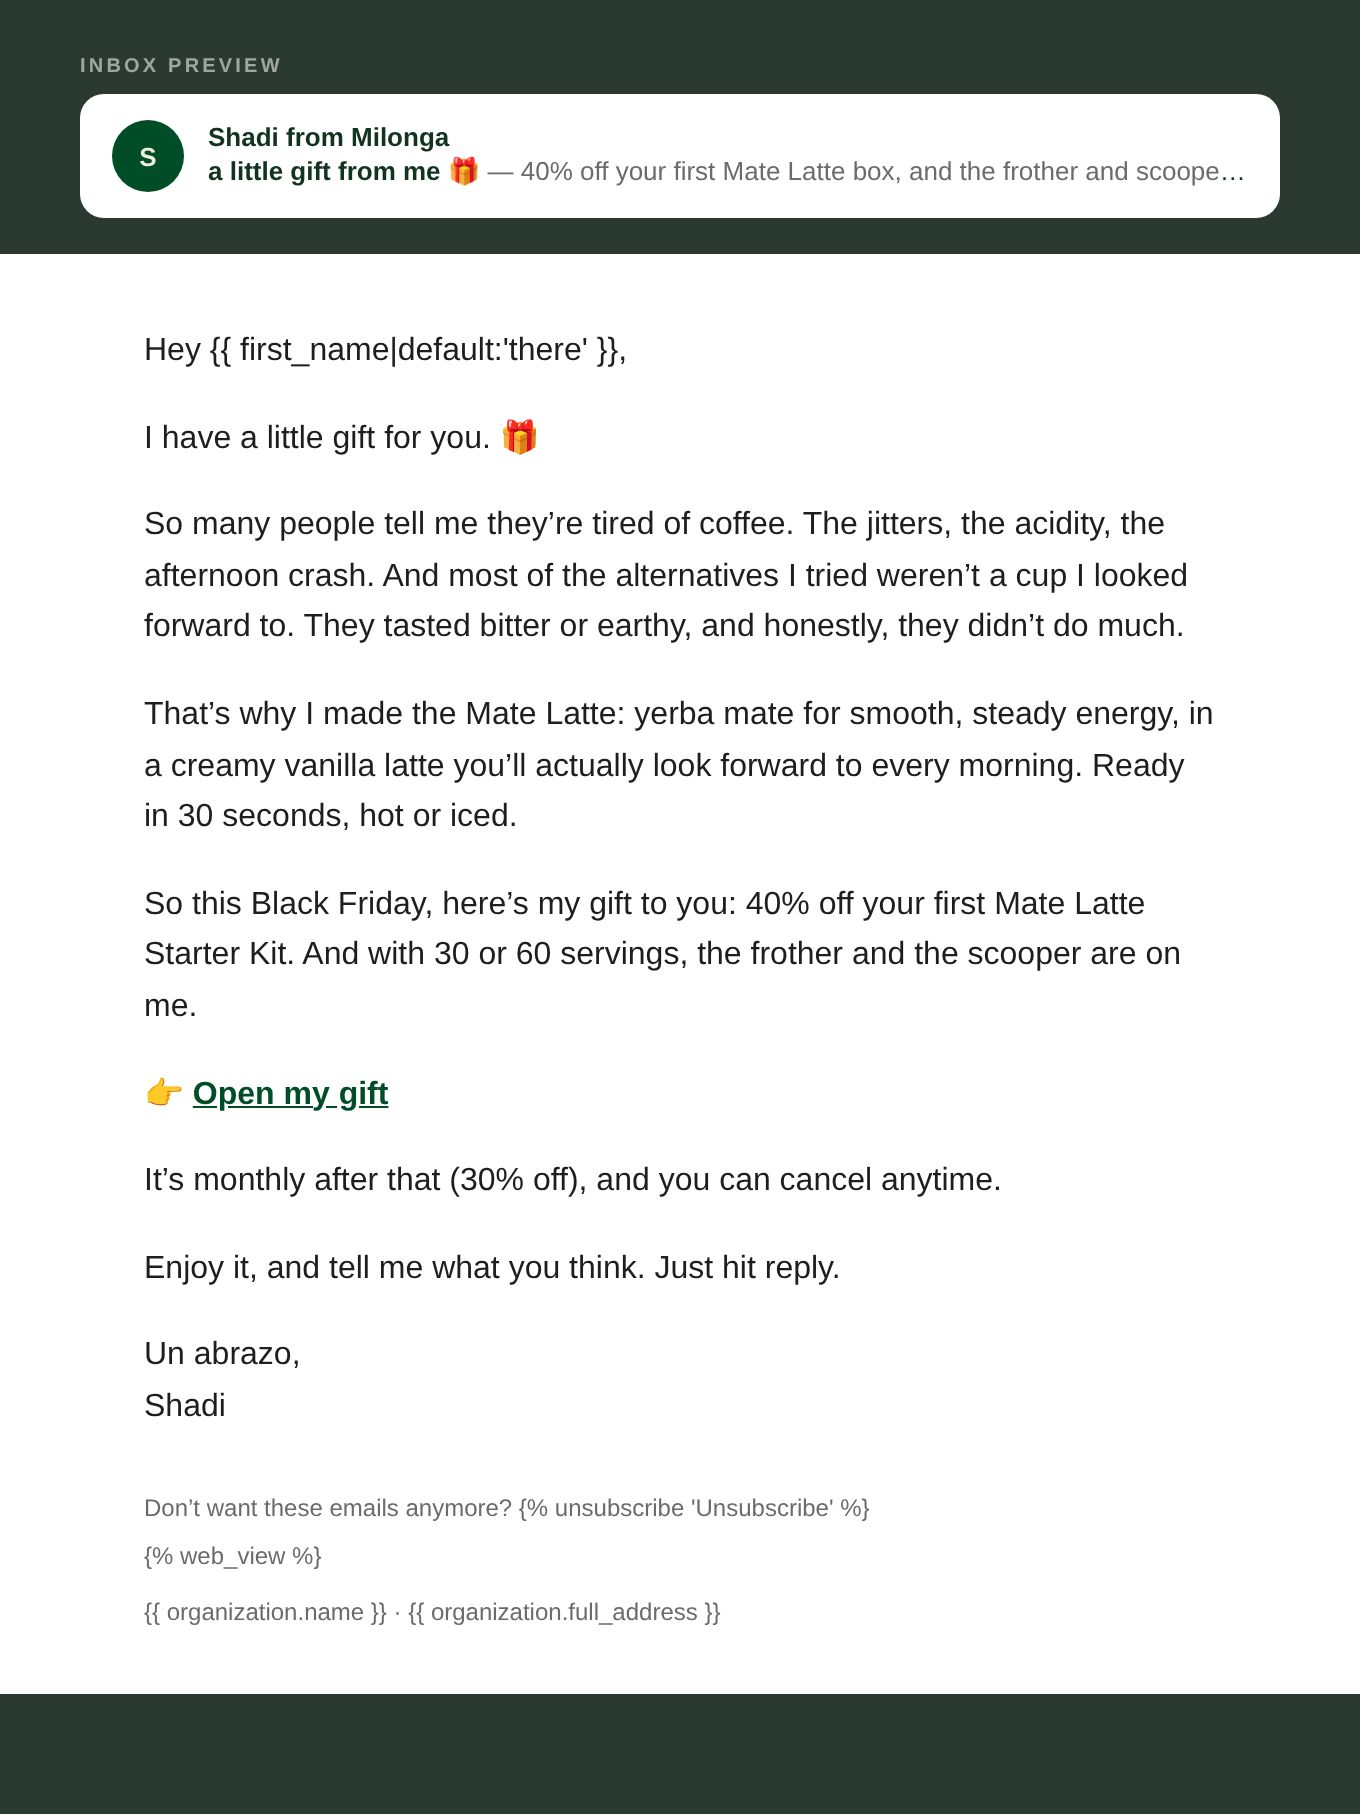
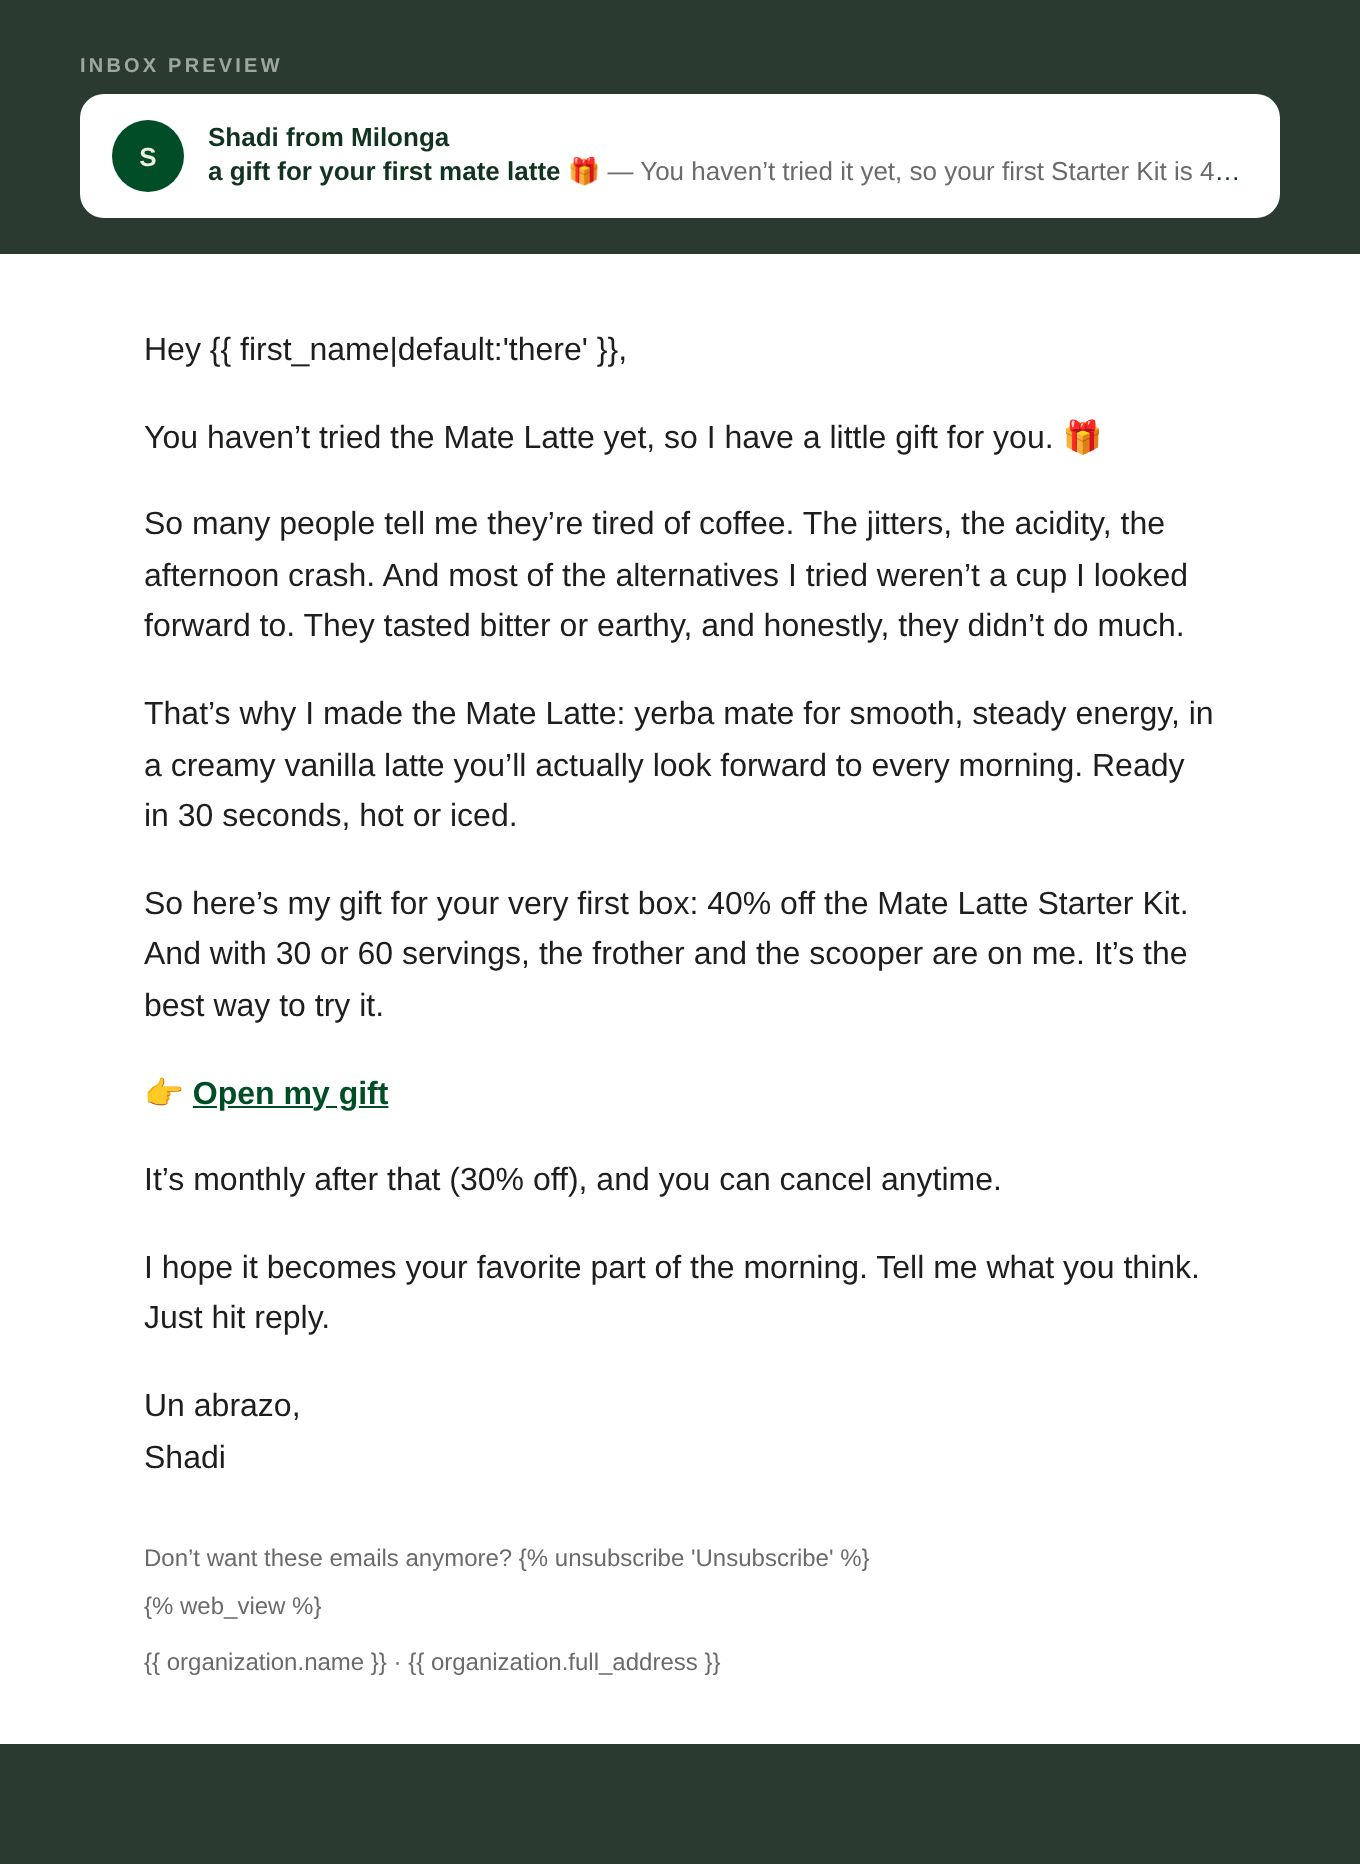
Shadi's Black Friday letter: the gift for people who haven't tried the Mate Latte
Claude-Session: https://claude.ai/code/session_01NhEtXPnfeCJfN73SqBkUZ5

diff --git a/email-ds/refine/bf-shadi.html b/email-ds/refine/bf-shadi.html
@@ -1,4 +1,4 @@
-<!doctype html><html><head><meta charset="utf-8"><meta name="viewport" content="width=device-width,initial-scale=1"><style>body{margin:0;background:#2B3A31;padding:28px 0 60px}.inbox{width:600px;max-width:calc(100% - 24px);margin:0 auto 18px;font-family:Helvetica,Arial,sans-serif}.lab{font-size:10px;font-weight:700;letter-spacing:.16em;text-transform:uppercase;color:rgba(255,255,255,.55);margin-bottom:8px}.row{background:#fff;border-radius:12px;padding:13px 16px;display:grid;grid-template-columns:36px 1fr;column-gap:12px;align-items:center}.av{grid-row:1/span 2;width:36px;height:36px;border-radius:50%;background:#004D27;color:#F0EFDF;display:grid;place-items:center;font-weight:900;font-size:13px}.from{font-weight:700;font-size:13px;color:#12331F}.sub{font-size:13px;line-height:1.4;color:#12331F;white-space:nowrap;overflow:hidden;text-overflow:ellipsis}.sub span{color:#6b6b6b}</style></head><body><div class="inbox"><div class="lab">Inbox preview</div><div class="row"><div class="av">S</div><div class="from">Shadi from Milonga</div><div class="sub"><b>a little gift from me 🎁</b> <span>&mdash; 40% off your first Mate Latte box, and the frother and scooper on me.</span></div></div></div><style>
+<!doctype html><html><head><meta charset="utf-8"><meta name="viewport" content="width=device-width,initial-scale=1"><style>body{margin:0;background:#2B3A31;padding:28px 0 60px}.inbox{width:600px;max-width:calc(100% - 24px);margin:0 auto 18px;font-family:Helvetica,Arial,sans-serif}.lab{font-size:10px;font-weight:700;letter-spacing:.16em;text-transform:uppercase;color:rgba(255,255,255,.55);margin-bottom:8px}.row{background:#fff;border-radius:12px;padding:13px 16px;display:grid;grid-template-columns:36px 1fr;column-gap:12px;align-items:center}.av{grid-row:1/span 2;width:36px;height:36px;border-radius:50%;background:#004D27;color:#F0EFDF;display:grid;place-items:center;font-weight:900;font-size:13px}.from{font-weight:700;font-size:13px;color:#12331F}.sub{font-size:13px;line-height:1.4;color:#12331F;white-space:nowrap;overflow:hidden;text-overflow:ellipsis}.sub span{color:#6b6b6b}</style></head><body><div class="inbox"><div class="lab">Inbox preview</div><div class="row"><div class="av">S</div><div class="from">Shadi from Milonga</div><div class="sub"><b>a gift for your first mate latte 🎁</b> <span>&mdash; You haven&rsquo;t tried it yet, so your first Starter Kit is 40% off, on me.</span></div></div></div><style>
   .unsub-pill a { color:#6B6B6B !important; text-decoration:underline !important; }
   .web-view-line a { color:#6B6B6B !important; }
   @media only screen and (max-width:620px) { .wrap { width:100% !important; } .pad { padding:28px 22px !important; } }
@@ -8,13 +8,13 @@
 <tr><td class="pad" align="left" style="padding:36px 32px 28px;font-family:Helvetica, Arial, sans-serif;font-size:16px;line-height:1.6;color:#1E1E1E;">
 
 <p style="margin:0 0 18px;">Hey {{ first_name|default:'there' }},</p>
-<p style="margin:0 0 18px;">I have a little gift for you. 🎁</p>
+<p style="margin:0 0 18px;">You haven&rsquo;t tried the Mate Latte yet, so I have a little gift for you. 🎁</p>
 <p style="margin:0 0 18px;">So many people tell me they&rsquo;re tired of coffee. The jitters, the acidity, the afternoon crash. And most of the alternatives I tried weren&rsquo;t a cup I looked forward to. They tasted bitter or earthy, and honestly, they didn&rsquo;t do much.</p>
 <p style="margin:0 0 18px;">That&rsquo;s why I made the Mate Latte: yerba mate for smooth, steady energy, in a creamy vanilla latte you&rsquo;ll actually look forward to every morning. Ready in 30 seconds, hot or iced.</p>
-<p style="margin:0 0 18px;">So this Black Friday, here&rsquo;s my gift to you: 40% off your first Mate Latte Starter Kit. And with 30 or 60 servings, the frother and the scooper are on me.</p>
+<p style="margin:0 0 18px;">So here&rsquo;s my gift for your very first box: 40% off the Mate Latte Starter Kit. And with 30 or 60 servings, the frother and the scooper are on me. It&rsquo;s the best way to try it.</p>
 <p style="margin:0 0 18px;">👉 <a href="https://milonga.life/products/the-original-mate-latte?selling_plan=8837562678&amp;variant=54302750245174&amp;utm_source=klaviyo&amp;utm_medium=email&amp;utm_campaign=black_friday_2026&amp;utm_content=shadi_kit_link" target="_blank" style="color:#004D27;font-weight:bold;text-decoration:underline;">Open my gift</a></p>
 <p style="margin:0 0 18px;">It&rsquo;s monthly after that (30% off), and you can cancel anytime.</p>
-<p style="margin:0 0 18px;">Enjoy it, and tell me what you think. Just hit reply.</p>
+<p style="margin:0 0 18px;">I hope it becomes your favorite part of the morning. Tell me what you think. Just hit reply.</p>
 <p style="margin:0 0 0px;">Un abrazo,<br>Shadi</p>
 
 </td></tr>

diff --git a/email-ds/exports/klaviyo/bf-shadi/bf-shadi.html b/email-ds/exports/klaviyo/bf-shadi/bf-shadi.html
@@ -4,10 +4,10 @@
 <meta charset="utf-8">
 <meta name="viewport" content="width=device-width, initial-scale=1">
 <meta name="x-apple-disable-message-reformatting">
-<title>a little gift from me 🎁</title>
+<title>a gift for your first mate latte 🎁</title>
 <!--
-  CAMPAIGN · BLACK FRIDAY 2026 · A LETTER FROM SHADI · "a little gift from me 🎁"
-  Preview text: 40% off your first Mate Latte box, and the frother and scooper on me.
+  CAMPAIGN · BLACK FRIDAY 2026 · A LETTER FROM SHADI · "a gift for your first mate latte 🎁"
+  Preview text: You haven’t tried it yet, so your first Starter Kit is 40% off, on me.
   From: Shadi from Milonga · reply-to: an inbox Shadi reads · audience: never ordered the Mate Latte
   A plain letter: no images, one link. Full document for a Klaviyo code template. GENERATED by scripts/make-bf-shadi.mjs.
 -->
@@ -24,13 +24,13 @@
 <tr><td class="pad" align="left" style="padding:36px 32px 28px;font-family:Helvetica, Arial, sans-serif;font-size:16px;line-height:1.6;color:#1E1E1E;">
 
 <p style="margin:0 0 18px;">Hey {{ first_name|default:'there' }},</p>
-<p style="margin:0 0 18px;">I have a little gift for you. 🎁</p>
+<p style="margin:0 0 18px;">You haven&rsquo;t tried the Mate Latte yet, so I have a little gift for you. 🎁</p>
 <p style="margin:0 0 18px;">So many people tell me they&rsquo;re tired of coffee. The jitters, the acidity, the afternoon crash. And most of the alternatives I tried weren&rsquo;t a cup I looked forward to. They tasted bitter or earthy, and honestly, they didn&rsquo;t do much.</p>
 <p style="margin:0 0 18px;">That&rsquo;s why I made the Mate Latte: yerba mate for smooth, steady energy, in a creamy vanilla latte you&rsquo;ll actually look forward to every morning. Ready in 30 seconds, hot or iced.</p>
-<p style="margin:0 0 18px;">So this Black Friday, here&rsquo;s my gift to you: 40% off your first Mate Latte Starter Kit. And with 30 or 60 servings, the frother and the scooper are on me.</p>
+<p style="margin:0 0 18px;">So here&rsquo;s my gift for your very first box: 40% off the Mate Latte Starter Kit. And with 30 or 60 servings, the frother and the scooper are on me. It&rsquo;s the best way to try it.</p>
 <p style="margin:0 0 18px;">👉 <a href="https://milonga.life/products/the-original-mate-latte?selling_plan=8837562678&amp;variant=54302750245174&amp;utm_source=klaviyo&amp;utm_medium=email&amp;utm_campaign=black_friday_2026&amp;utm_content=shadi_kit_link" target="_blank" style="color:#004D27;font-weight:bold;text-decoration:underline;">Open my gift</a></p>
 <p style="margin:0 0 18px;">It&rsquo;s monthly after that (30% off), and you can cancel anytime.</p>
-<p style="margin:0 0 18px;">Enjoy it, and tell me what you think. Just hit reply.</p>
+<p style="margin:0 0 18px;">I hope it becomes your favorite part of the morning. Tell me what you think. Just hit reply.</p>
 <p style="margin:0 0 0px;">Un abrazo,<br>Shadi</p>
 
 </td></tr>
